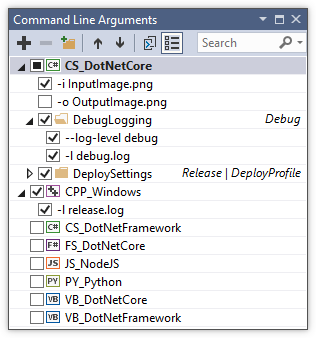
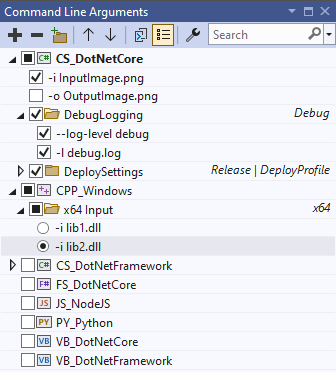
Updated Readme

diff --git a/README.md b/README.md
@@ -1,16 +1,14 @@
 
 # <img src="Doc/SmartCommandLineIcon-Readme.png">  Smart Command Line Arguments 
-A Visual Studio Extension which aims to provide a better UI to manage your command line arguments  
+A Visual Studio Extension which aims to provide a better UI to manage your command line arguments
 
 > "The only smart way to pass standard command arguments to programs." - [A happy user](https://marketplace.visualstudio.com/items?itemName=MBulli.SmartCommandlineArguments#review-details)
 
 ## Install
 
-For VS 2022 download the vsix manually from: [Release v2.3.2](https://github.com/MBulli/SmartCommandlineArgs/releases/tag/v2.3.2)
+Install the extension inside Visual Studio or download it from the Visual Studio Marketplace [for VS2022](https://marketplace.visualstudio.com/items?itemName=MBulli.SmartCommandlineArguments2022) or [v2.3.2 for VS2015, VS20217 and VS2019](https://marketplace.visualstudio.com/items?itemName=MBulli.SmartCommandlineArguments).
 
-Install the extension inside Visual Studio or download it from the [Visual Studio Marketplace](https://marketplace.visualstudio.com/items?itemName=MBulli.SmartCommandlineArguments "Visual Studio Marketplace").
-
-Visual Studio 2015, 2017 and 2019 and the following project types are supported:
+Visual Studio 2017, 2019 and 2022 and the following project types are supported:
 - C# .Net Framework
 - C# .Net Core
 - VB .Net
@@ -18,41 +16,47 @@ Visual Studio 2015, 2017 and 2019 and the following project types are supported:
 - C/C++
 - Node.js
 - Python
+- Fortran
 - Remote WSL Debugger
 - Android Native Debugger
+- Oasis NX Debugger
 
 If you're using Cmake make sure to read the [Cmake support wiki page](https://github.com/MBulli/SmartCommandlineArgs/wiki/Cmake-support "Cmake").
 
 ## Usage
 Open the window via:  
 View → Other Windows → Commandline Arguments  
-  
+
 If the Window is open or minimized the commandline arguments should not be edited via the project properties.  
 Changes which are made in the window are applied to all project configurations (Release/Debug etc.) of the current startup project.
 
-## Version Control Support
-The extension stores the commandline arguments inside a json file at the same location as the related project file.  
-If this new behavior is not welcomed one can fallback to the 'old' mode where the commandline arguments have been stored inside the solutions .suo-file:  
-Tools → Options → Smart Commandline Arguments → General → Enable version control support
-
 ## Interface
-![Add button](Doc/Images/AddIcon.png "Add Button"): Add new line  
-![Remove button](Doc/Images/RemoveIcon.png "Remove Button"): Remove selected lines  
-![Add group button](Doc/Images/AddGroupIcon.png "Add Group Button"): Add new group  
-![Up/Down button](Doc/Images/MoveUpIcon.png "Move Up Button") / ![alt text](Doc/Images/MoveDownIcon.png "Move Down Button"): Move selected lines  
-![Copy cmd](Doc/Images/CopyCommandlineIcon.png "Copy commandline to clipboard"): Copy command line to clipboard. In the example below, the string `-f input_image.png -l latest.log -o out_image.png` is copied to the clipboard.  
-![Show all projects](Doc/Images/ShowAllProjectsIcon.png "Show all Projects"): Toggle 'Show all projects' to also display non-startup projects.
+- ![Add button](Doc/Images/AddIcon.png "Add Button"): Add new line
+- ![Remove button](Doc/Images/RemoveIcon.png "Remove Button"): Remove selected lines
+- ![Add group button](Doc/Images/AddGroupIcon.png "Add Group Button"): Add new group
+- ![Up/Down button](Doc/Images/MoveUpIcon.png "Move Up Button") / ![alt text](Doc/Images/MoveDownIcon.png "Move Down Button"): Move selected lines
+- ![Copy cmd](Doc/Images/CopyCommandlineIcon.png "Copy commandline to clipboard"): Copy command line to clipboard. In the example below, the string `-f input_image.png -l latest.log -o out_image.png` is copied to the clipboard.
+- ![Show all projects](Doc/Images/ShowAllProjectsIcon.png "Show all Projects"): Toggle 'Show all projects' to also display non-startup projects.
+- ![Settings](Doc/Images/SettingsIcon.png): Open the [Settings](#settings) dialog
 
 ![Window](Doc/Images/MainWindow.png "Command Line Arguments window, showning all projects")
 
+## Settings
+If the checkboxes are filled with a square the default value is used.
+The default value for these settings can be configured under `Tools → Options → Smart Commandline Arguments → Settings Defaults`.
+
+- **Save Settings to JSON**: If true then the these settings are stored in a JSON file next to the solution file.
+- **Enable version control support**: If enabled the extension will store the command line arguments into an json file at the same loctation as the related project file. That way the command line arguments might be version controlled by a VCS. If disabled the extension will store everything inside the solutions `.suo-file` which is usally ignored by version control. The default value for this setting is True.
+- **Use Solution Directory**: If enabled all arguments of every project will be stored in a single file next to the *.sln file. (Only if version control support is enabled)
+- **Enable Macro evaluation**: If enabled Macros like '$(ProjectDir)' will be evaluated and replaced by the corresponding string.
 
 ## Hotkeys
-<kbd>CTRL</kbd>+<kbd>↑</kbd> / <kbd>CTRL</kbd>+<kbd>↓</kbd>: Move selected items.  
-<kbd>Space</kbd>: Disable/Enable selected items.  
-<kbd>Delete</kbd>: Remove selected items.  
-<kbd>Insert</kbd>: Add a new item.  
-<kbd>Alt</kbd>+<kbd>Insert</kbd>: Add a new group.  
-<kbd>Alt</kbd>+<kbd>Enable/Disable Item</kbd>: Disable all other Items (useful if only one item should be enabled).
+- <kbd>CTRL</kbd>+<kbd>↑</kbd> / <kbd>CTRL</kbd>+<kbd>↓</kbd>: Move selected items.
+- <kbd>Space</kbd>: Disable/Enable selected items.
+- <kbd>Delete</kbd>: Remove selected items.
+- <kbd>Insert</kbd>: Add a new item.
+- <kbd>Alt</kbd>+<kbd>Insert</kbd>: Add a new group.
+- <kbd>Alt</kbd>+<kbd>Enable/Disable Item</kbd>: Disable all other Items (useful if only one item should be enabled).
 
 ## Paste
 
@@ -64,15 +68,18 @@ There are also three different types of data which can be pasted:
 
 ## Context Menu
 
-![Context Menu](Doc/Images/ContextMenu.png "Context Menu with a single group selected")
+![Context Menu](Doc/Images/ContextMenuGroup.png "Context Menu with a single group selected")
 
-**Cut** / **Copy** / **Delete**: Cuts/Copies/Deletes the selected items.  
-**Paste**: Pastes the previously copied/cut items, text, or files (see [Paste](#paste)).
-
-**New Group from Selection**: Creates a new Group and moves the selected items into it.  
-**Split Argument** (only available while ONE argument is selected): Splits the argument with the typical cmd line parsing rules (e.g. `-o "C:\Test Folder\Output.png"` is split into two arguments `-o` and `"C:\Test Folder\Output.png"`).  
-**Project Configuration** / **Launch Profile** (only available while ONE group is selected): Shows a sub menu to select a Project Configuration/Launch Profile. If a Project Configuration/Launch Profile is set for a group, it is only evaluated if this Project Configuration/Launch Profile is active.  
-**Set as single Startup Project** (only available while ONE project is selected): Sets the selected project as the startup project.
+- **Cut** / **Copy** / **Delete**: Cuts/Copies/Deletes the selected items.
+- **Paste**: Pastes the previously copied/cut items, text, or files (see [Paste](#paste)).
+- **Space Delimiter** (only available while ONE group or project is selected): If this is checked then each argument in the group is seperated by a space when passed to the application.
+- **Exclusive Mode** (only available while ONE group or project is selected): If this is checked then the group switches to a radio button mode where only one argument can be checked at any given time.
+- **New Group from Selection**: Creates a new Group and moves the selected items into it.
+- **Reset to default checked**: Resets every selected arguemnt to the checked state given by the _Default Dhecked_ option.
+- **Default Checked**: If this is checked then the argument sould be chekd by default e.g. if someone opens up the project for the first time.
+- **Split Argument** (only available while ONE argument is selected): Splits the argument with the typical cmd line parsing rules (e.g. `-o "C:\Test Folder\Output.png"` is split into two arguments `-o` and `"C:\Test Folder\Output.png"`).
+- **Project Configuration** / **Launch Profile** / **Project Platform** (only available while ONE group is selected): Shows a sub menu to select a Project Configuration/Launch Profile/Project Platform. If this is set for a group, it is only evaluated if the right Project Configuration/Launch Profile/Project Platform is active.
+- **Set as single Startup Project** (only available while ONE project is selected): Sets the selected project as the startup project.
 
 ## Donation
 If you like this extension you can buy us a cup of coffee or a coke! :D
